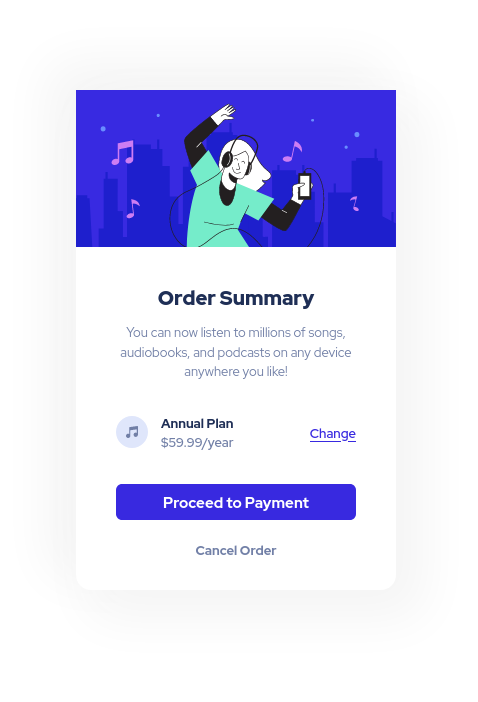
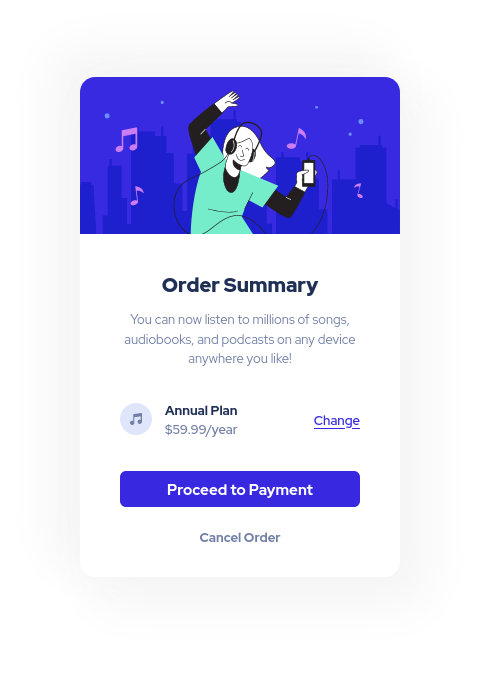
fix image overlow

diff --git a/css/style.css b/css/style.css
@@ -102,6 +102,11 @@ img {
   align-items: center;
 }
 
+/* Overlay */
+.card-overlay {
+  overflow: hidden;
+}
+
 /* Badge */
 
 .badge {

diff --git a/README.md b/README.md
@@ -30,8 +30,8 @@ Users should be able to:
 
 ### Links
 
-- Solution URL: [Add solution URL here](https://your-solution-url.com)
-- Live Site URL: [Add live site URL here](https://your-live-site-url.com)
+- frontend mentor [solution](https://your-solution-url.com)
+- project [ live preview](https://jos-me.github.io/order-summary-component/)
 
 ## My process
 
